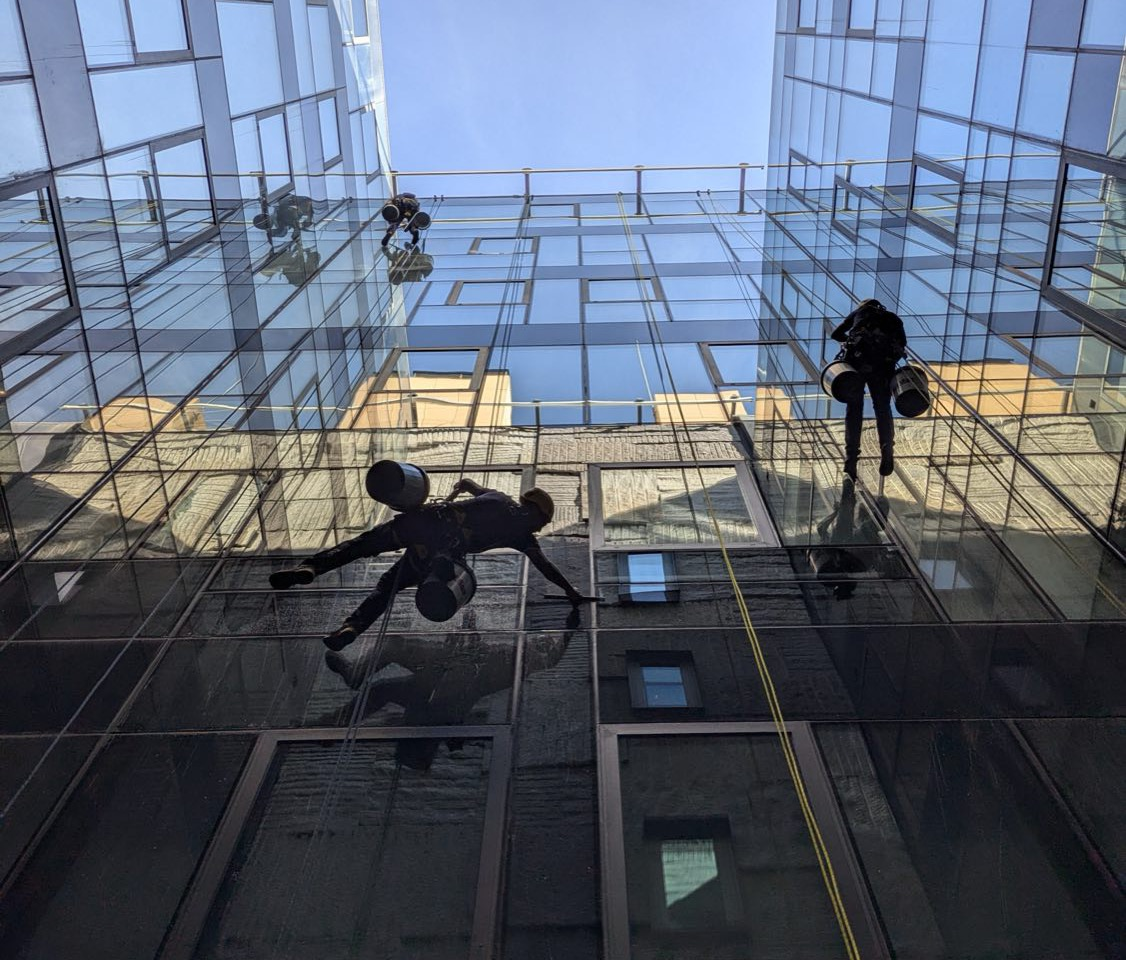
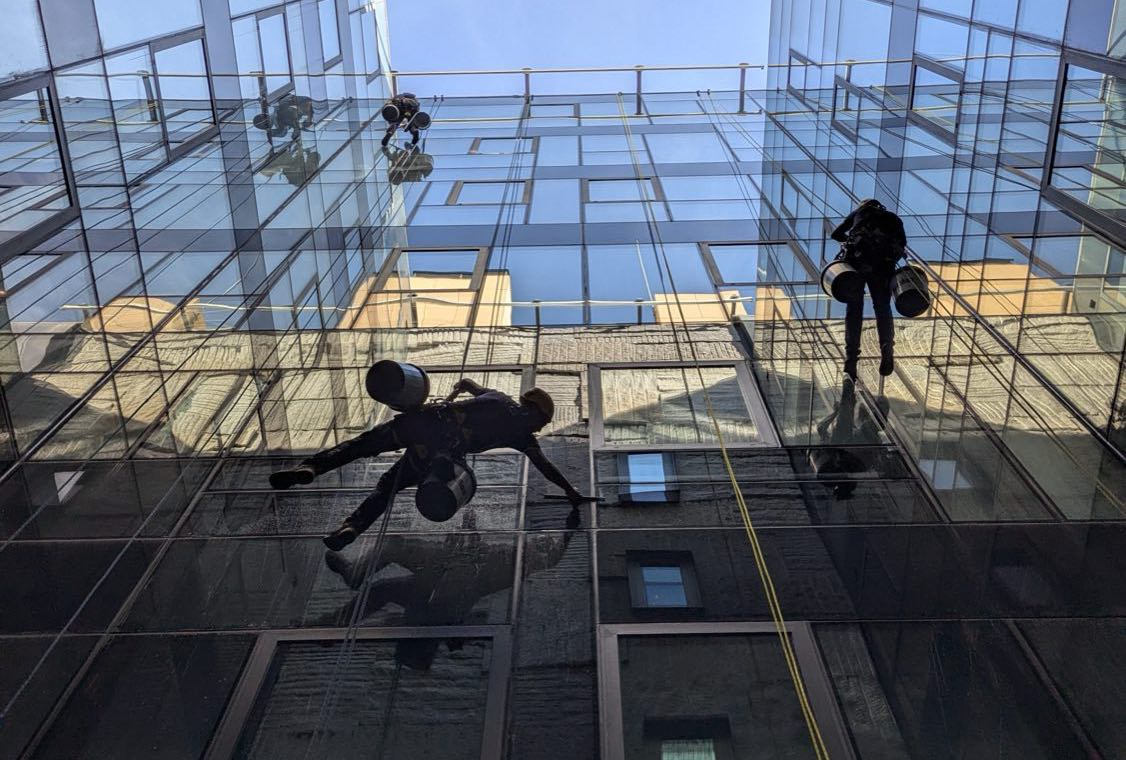
Portada móvil: recorte con los técnicos en el tramo inferior y degradado más abierto

diff --git a/como-funciona/index.html b/como-funciona/index.html
@@ -98,8 +98,8 @@
   .hero .micro{color:var(--muted);font-size:14px;max-width:52ch}
   @media (max-width:900px){
     .hero .copy{padding:44px 0 190px;gap:16px;max-width:none}
-    .hero::before{background-image:url("/images/hero-patio-movil.jpg");background-position:40% 100%;opacity:1}
-    .hero::after{background:linear-gradient(180deg,var(--surface) 0%,var(--surface) 38%,rgba(255,255,255,.86) 58%,rgba(255,255,255,.55) 76%,rgba(255,255,255,.12) 100%)}
+    .hero::before{background-image:url("/images/hero-patio-movil.jpg");background-position:36% 100%;opacity:1}
+    .hero::after{background:linear-gradient(180deg,var(--surface) 0%,var(--surface) 36%,rgba(255,255,255,.84) 56%,rgba(255,255,255,.42) 74%,rgba(255,255,255,.04) 100%)}
     .hero .micro{color:var(--ink)}
   }
   @media (prefers-color-scheme: dark){ :root:not([data-theme="light"]) .hero::after{background:linear-gradient(90deg,var(--surface) 0%,var(--surface) 44%,rgba(14,51,88,.75) 62%,rgba(14,51,88,.35) 100%)} }

diff --git a/el-informe/index.html b/el-informe/index.html
@@ -98,8 +98,8 @@
   .hero .micro{color:var(--muted);font-size:14px;max-width:52ch}
   @media (max-width:900px){
     .hero .copy{padding:44px 0 190px;gap:16px;max-width:none}
-    .hero::before{background-image:url("/images/hero-patio-movil.jpg");background-position:40% 100%;opacity:1}
-    .hero::after{background:linear-gradient(180deg,var(--surface) 0%,var(--surface) 38%,rgba(255,255,255,.86) 58%,rgba(255,255,255,.55) 76%,rgba(255,255,255,.12) 100%)}
+    .hero::before{background-image:url("/images/hero-patio-movil.jpg");background-position:36% 100%;opacity:1}
+    .hero::after{background:linear-gradient(180deg,var(--surface) 0%,var(--surface) 36%,rgba(255,255,255,.84) 56%,rgba(255,255,255,.42) 74%,rgba(255,255,255,.04) 100%)}
     .hero .micro{color:var(--ink)}
   }
   @media (prefers-color-scheme: dark){ :root:not([data-theme="light"]) .hero::after{background:linear-gradient(90deg,var(--surface) 0%,var(--surface) 44%,rgba(14,51,88,.75) 62%,rgba(14,51,88,.35) 100%)} }

diff --git a/index.html b/index.html
@@ -98,8 +98,8 @@
   .hero .micro{color:var(--muted);font-size:14px;max-width:52ch}
   @media (max-width:900px){
     .hero .copy{padding:44px 0 190px;gap:16px;max-width:none}
-    .hero::before{background-image:url("/images/hero-patio-movil.jpg");background-position:40% 100%;opacity:1}
-    .hero::after{background:linear-gradient(180deg,var(--surface) 0%,var(--surface) 38%,rgba(255,255,255,.86) 58%,rgba(255,255,255,.55) 76%,rgba(255,255,255,.12) 100%)}
+    .hero::before{background-image:url("/images/hero-patio-movil.jpg");background-position:36% 100%;opacity:1}
+    .hero::after{background:linear-gradient(180deg,var(--surface) 0%,var(--surface) 36%,rgba(255,255,255,.84) 56%,rgba(255,255,255,.42) 74%,rgba(255,255,255,.04) 100%)}
     .hero .micro{color:var(--ink)}
   }
   @media (prefers-color-scheme: dark){ :root:not([data-theme="light"]) .hero::after{background:linear-gradient(90deg,var(--surface) 0%,var(--surface) 44%,rgba(14,51,88,.75) 62%,rgba(14,51,88,.35) 100%)} }

diff --git a/precios/index.html b/precios/index.html
@@ -98,8 +98,8 @@
   .hero .micro{color:var(--muted);font-size:14px;max-width:52ch}
   @media (max-width:900px){
     .hero .copy{padding:44px 0 190px;gap:16px;max-width:none}
-    .hero::before{background-image:url("/images/hero-patio-movil.jpg");background-position:40% 100%;opacity:1}
-    .hero::after{background:linear-gradient(180deg,var(--surface) 0%,var(--surface) 38%,rgba(255,255,255,.86) 58%,rgba(255,255,255,.55) 76%,rgba(255,255,255,.12) 100%)}
+    .hero::before{background-image:url("/images/hero-patio-movil.jpg");background-position:36% 100%;opacity:1}
+    .hero::after{background:linear-gradient(180deg,var(--surface) 0%,var(--surface) 36%,rgba(255,255,255,.84) 56%,rgba(255,255,255,.42) 74%,rgba(255,255,255,.04) 100%)}
     .hero .micro{color:var(--ink)}
   }
   @media (prefers-color-scheme: dark){ :root:not([data-theme="light"]) .hero::after{background:linear-gradient(90deg,var(--surface) 0%,var(--surface) 44%,rgba(14,51,88,.75) 62%,rgba(14,51,88,.35) 100%)} }

diff --git a/preguntas/index.html b/preguntas/index.html
@@ -98,8 +98,8 @@
   .hero .micro{color:var(--muted);font-size:14px;max-width:52ch}
   @media (max-width:900px){
     .hero .copy{padding:44px 0 190px;gap:16px;max-width:none}
-    .hero::before{background-image:url("/images/hero-patio-movil.jpg");background-position:40% 100%;opacity:1}
-    .hero::after{background:linear-gradient(180deg,var(--surface) 0%,var(--surface) 38%,rgba(255,255,255,.86) 58%,rgba(255,255,255,.55) 76%,rgba(255,255,255,.12) 100%)}
+    .hero::before{background-image:url("/images/hero-patio-movil.jpg");background-position:36% 100%;opacity:1}
+    .hero::after{background:linear-gradient(180deg,var(--surface) 0%,var(--surface) 36%,rgba(255,255,255,.84) 56%,rgba(255,255,255,.42) 74%,rgba(255,255,255,.04) 100%)}
     .hero .micro{color:var(--ink)}
   }
   @media (prefers-color-scheme: dark){ :root:not([data-theme="light"]) .hero::after{background:linear-gradient(90deg,var(--surface) 0%,var(--surface) 44%,rgba(14,51,88,.75) 62%,rgba(14,51,88,.35) 100%)} }

diff --git a/servicios/index.html b/servicios/index.html
@@ -98,8 +98,8 @@
   .hero .micro{color:var(--muted);font-size:14px;max-width:52ch}
   @media (max-width:900px){
     .hero .copy{padding:44px 0 190px;gap:16px;max-width:none}
-    .hero::before{background-image:url("/images/hero-patio-movil.jpg");background-position:40% 100%;opacity:1}
-    .hero::after{background:linear-gradient(180deg,var(--surface) 0%,var(--surface) 38%,rgba(255,255,255,.86) 58%,rgba(255,255,255,.55) 76%,rgba(255,255,255,.12) 100%)}
+    .hero::before{background-image:url("/images/hero-patio-movil.jpg");background-position:36% 100%;opacity:1}
+    .hero::after{background:linear-gradient(180deg,var(--surface) 0%,var(--surface) 36%,rgba(255,255,255,.84) 56%,rgba(255,255,255,.42) 74%,rgba(255,255,255,.04) 100%)}
     .hero .micro{color:var(--ink)}
   }
   @media (prefers-color-scheme: dark){ :root:not([data-theme="light"]) .hero::after{background:linear-gradient(90deg,var(--surface) 0%,var(--surface) 44%,rgba(14,51,88,.75) 62%,rgba(14,51,88,.35) 100%)} }

diff --git a/trabajos/index.html b/trabajos/index.html
@@ -98,8 +98,8 @@
   .hero .micro{color:var(--muted);font-size:14px;max-width:52ch}
   @media (max-width:900px){
     .hero .copy{padding:44px 0 190px;gap:16px;max-width:none}
-    .hero::before{background-image:url("/images/hero-patio-movil.jpg");background-position:40% 100%;opacity:1}
-    .hero::after{background:linear-gradient(180deg,var(--surface) 0%,var(--surface) 38%,rgba(255,255,255,.86) 58%,rgba(255,255,255,.55) 76%,rgba(255,255,255,.12) 100%)}
+    .hero::before{background-image:url("/images/hero-patio-movil.jpg");background-position:36% 100%;opacity:1}
+    .hero::after{background:linear-gradient(180deg,var(--surface) 0%,var(--surface) 36%,rgba(255,255,255,.84) 56%,rgba(255,255,255,.42) 74%,rgba(255,255,255,.04) 100%)}
     .hero .micro{color:var(--ink)}
   }
   @media (prefers-color-scheme: dark){ :root:not([data-theme="light"]) .hero::after{background:linear-gradient(90deg,var(--surface) 0%,var(--surface) 44%,rgba(14,51,88,.75) 62%,rgba(14,51,88,.35) 100%)} }
